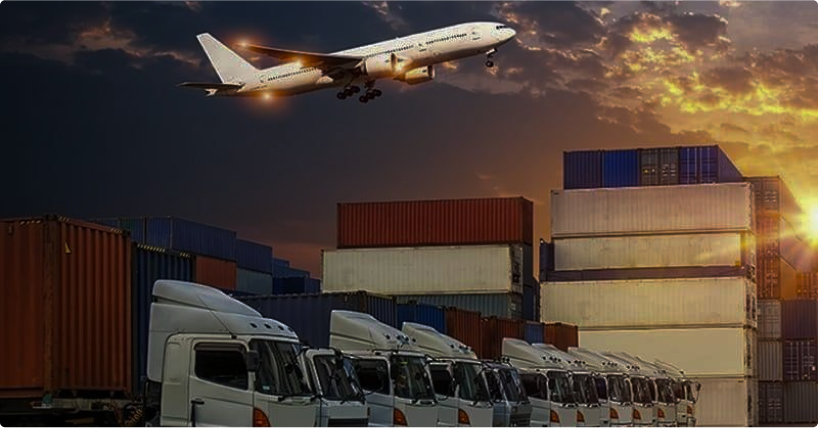
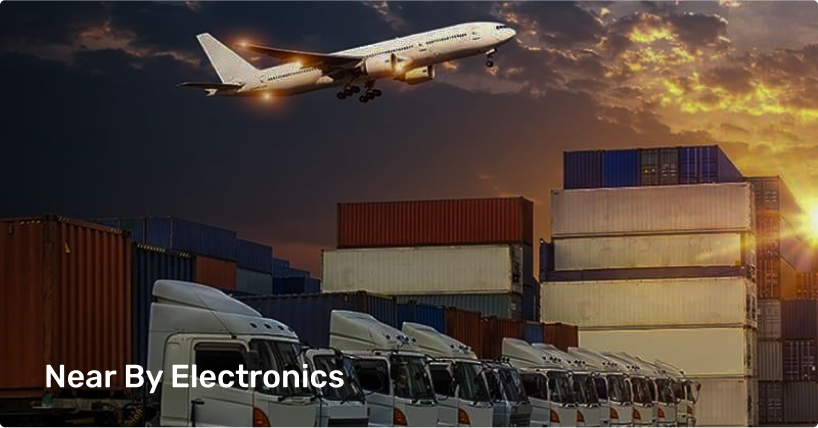
master

Changed region(s): [[0.0306, 0.8505, 0.4279, 0.9112]]

diff --git a/index.html b/index.html
@@ -7,10 +7,9 @@
     <link rel="icon" href="img/bus.png">
     <!-- css -->
     <link rel="stylesheet" href="style.css">
-    <link rel="stylesheet" href="https://cdnjs.cloudflare.com/ajax/libs/bootstrap/5.1.0/css/bootstrap.min.css">
     <!-- font -->
     <link rel="preconnect" href="https://fonts.googleapis.com">
-    <link rel="preconnect" href="https://fonts.gstatic.com" crossorigin>
+    <link rel="preconnect" href="https://fonts.gstatic.com">
     <link href="https://fonts.googleapis.com/css2?family=Poppins&display=swap" rel="stylesheet">
     
     <!-- bootstrap -->
@@ -25,6 +24,7 @@
             <span class="span1">Important Note:</span> if you completely feel secure then transfer your money
         </h1>
     </div>
+
     <div class="container-fluid fdsdf" style="padding: 20px 62px;">
         <div class="row" style="justify-content: space-between;">
             <div class="col-md-3 col-6 d-flex mt-1" style="gap: 4px;padding: 7px 0px;">
@@ -76,24 +76,30 @@
         </div>
 
     </div>
-    <!-- <div class="container-fluid" style="background-image: url(img/image\ 2.png);height: 860px;background-repeat: no-repeat;background-size: cover;">
-    <div class="row">
-        <div class="div1">
-            <h1 class="h2">
-                Ship to and from anywhere in the world 
-            </h1>
-            <h1 class="h3">
-                Find the best freight quote 
-            </h1>
-            <h1 class="h4">
-                Lorem ipsum dolor sit amet consectetur. Aliquam nibh quam vivamus ultricies semper sed gravida dictumst nunc. Ut ac luctus facilisis ipsum mauris volutpat elementum ut. Volutpat nullam tellus egestas scelerisque tellus
-            </h1>
+
+
+
+<div class="linear w-100">
+    <img src="img/background_border.png" class="w-100">
+    <div class="container">
+        <div class="row">
+            <div class="div1">
+                <h1 class="h2">
+                    Ship to and from anywhere in the world 
+                </h1>
+                <h1 class="h3">
+                    Find the best freight quote 
+                </h1>
+                <h1 class="h4">
+                    Lorem ipsum dolor sit amet consectetur. Aliquam nibh quam vivamus ultricies semper sed gravida dictumst nunc. Ut ac luctus facilisis ipsum mauris volutpat elementum ut. Volutpat nullam tellus egestas scelerisque tellus
+                </h1>
+            </div>
+            <div class="div2"></div>
         </div>
-        <div class="div2"></div>
-    </div> -->
+    </div>
 </div>
 
-<div class="container">
+<div class="container" style="margin-top: 65px;">
     <div class="row" style="justify-content: space-between;">
         <div class="col-12 col-md-6">
             <div class="relative" style="position: relative; height: fit-content;background-image: url(img/Who\ we\ are.png);background-repeat: no-repeat;">
@@ -115,21 +121,76 @@
         </div>
     </div>
 </div>
+    <div class="servicesdiv">
+        <h1 style="margin-top: 130px;">
+            Services
+        </h1>
+    </div>
 
-<div class="servicesdiv">
-    <h1 style="margin-top: 130px;">
-        Services
-    </h1>
-</div>
 <div class="container">
-    <div class="row" style="row-gap: 38px;">
-        <div class="imagetxt gx-5 image1 col-12 col-md-8">Rail Express</div>
-        <div class="image2 gx-5 imagetxt col-6 col-md-4">Near By Furniture</div>
-        <div class="image3 gx-5 imagetxt col-6 col-md-4">Surface Express</div>
-        <div class="image4 gx-5 imagetxt col-6 col-md-4">Air Express</div>
-        <div class="image5 gx-5 imagetxt col-6 col-md-4">Domestic Air Express</div>
-        <div class="image6 gx-5 imagetxt col-5 col-md-4">Cold Chain Express</div>
-        <div class="image7 gx-5 imagetxt col-7 col-md-8">Near By Electronics</div>
+    <div class="row gy-4" >
+        <div class="image1 col-12 col-md-8">
+            <div class="w-100">
+                <img class="w-100" src="img/Rectangle 960.png">
+            </div> 
+        </div>
+        <div class=" image2 col-6 col-md-4">
+            <div class="w-100">
+                <img class="w-100" src="img/Rectangle 961.png">
+            </div> </div>
+        <div class=" image3 col-6 col-md-4">
+            <div class="w-100">
+                <img class="w-100" src="img/Rectangle 962.png">
+            </div> </div>
+        <div class="image4 col-6 col-md-4">
+            <div class="w-100">
+                <img class="w-100" src="img/Rectangle 963.png">
+            </div> </div>
+        <div class=" image5 col-6 col-md-4">
+            <div class="w-100">
+                <img class="w-100" src="img/Rectangle 964.png">
+            </div> </div>
+        <div class=" image4 col-4">
+            <div class="w-100">
+                <img class="w-100" src="img/Rectangle 965.png">
+            </div> </div>
+        <div class=" image7 col-8 col-md-8">
+            <div class="w-100">
+                <img class="w-100" src="img/Rectangle 966.png">
+            </div> 
+        </div>
+    </div>
+</div>
+
+<h1 class="Testimonials">
+    Testimonials
+</h1>
+<div class="row justify-content-center">
+    <div class="valuable col-md-6">
+        <h1 >
+            Our Valuable & Trusted Clients
+        </h1>
+    </div>
+</div>
+
+<div class="container">
+    <div class="row">
+        <div class="col-1">
+
+        </div>
+        <div class="col-12 col-md-8 portrait bg-danger">
+            <div class="row">
+                <div class="col-md-5">
+
+                </div>
+                <div class="col-md-7">
+
+                </div>
+            </div>
+        </div>
+        <div class="col-1">
+
+        </div>
     </div>
 </div>
 

diff --git a/style.css b/style.css
@@ -1,5 +1,6 @@
 * {
     box-sizing: border-box;
+    border: 1px solid red;
 }
 body{
     padding: 0;
@@ -28,7 +29,7 @@ body{
     src: url(font/Poppins-Regular.ttf);
 }
 
-@media (max-width: 850px) {
+@media (max-width: 992px) {
     
       .fdsdf{
         padding: 8px 30px !important;
@@ -117,7 +118,29 @@ transition: 0.4s;
     height: 233.371px;
     width: 100%;
     margin-top: 32px;
- }   
+ }
+ 
+ 
+
+
+.image2{
+    width: 320.084px;
+}
+.image3{
+    width: 320.084px;
+}
+.image4{
+    width: 320.084px;
+}
+.image5{
+    width: 320.084px;
+}
+.image6{
+    width: 320.084px;
+}
+
+
+
  .servicesdiv h1 {
     background-image: url(img/Services.png);
     background-repeat: no-repeat;
@@ -125,14 +148,34 @@ transition: 0.4s;
     font-size: 48px;
     font-family: 'Rubik';
     font-weight: 700;
-    margin-left: 110px;
     display: flex;
     justify-content: center;
     align-items: center;
-    width: 100%;
-    height: 110px;
+    width: 90%;
+    height: 70px;
+}
+.Testimonials{
+    color: var(--primary, #1341EC);
+    font-size: 10.24px;
+    font-family: Rubik;
+    font-weight: 600;
+    line-height: 15.36px;
+    text-align: center;
+    margin-top: 57px;
 }
 
+.valuable h1{
+    font-family: 'Rubik';
+    font-size: 20px;
+    font-weight: 700;
+    line-height: 35px;
+    letter-spacing: 0px;
+    text-align: left;
+    text-align: center;
+    background-image: url(img/Testimonials1.png);
+    background-repeat: no-repeat;
+    background-size: contain;
+}
 
 
 }
@@ -143,7 +186,18 @@ transition: 0.4s;
 
 
 
-@media (min-width: 850px) {
+@media (min-width: 992px) {
+
+    .portrait{
+        border-radius: 17.129px;
+        background: #FFF;
+        box-shadow: 0.8564284443855286px 2.5692856311798096px 4.282142162322998px 5.138571262359619px rgba(0, 0, 0, 0.25);
+        display: flex;
+        padding: 31px;
+        flex-direction: column;
+        align-items: flex-start;
+        height: 490px;
+    }
 .Trans{
         font-family: 'Risque';
         font-style: normal;
@@ -152,6 +206,26 @@ transition: 0.4s;
         line-height: 150%;
         text-transform: capitalize;
         color: #1341EC;
+}
+.valuable h1{
+    font-family: 'Rubik';
+font-size: 48px;
+font-weight: 700;
+line-height: 81px;
+letter-spacing: 0px;
+text-align: left;
+background-image: url(img/Testimonials.png);
+background-repeat: no-repeat;
+
+}
+.Testimonials{
+    color: var(--primary, #1341EC);
+font-size: 24px;
+font-family: Rubik;
+font-weight: 600;
+line-height: 36px;
+text-align: center;
+margin-top: 110px;
 }
 .servicesdiv h1 {
     background-image: url(img/Services.png);
@@ -279,31 +353,11 @@ text-decoration-line: underline;
 
 color: #FAFAFA;
 }
-.image1{
-    background-image: url(img/Rectangle\ 960.png);
-}
-.image2{
-    background-image: url(img/Rectangle\ 961.png);
-}
-.image3{
-    background-image: url(img/Rectangle\ 962.png);
-}
-.image4{
-    background-image: url(img/Rectangle\ 963.png);
-}
-.image5{
-    background-image: url(img/Rectangle\ 964.png);
-}
-.image6{
-    background-image: url(img/Rectangle\ 965.png);
-}
-.image7{
-    background-image: url(img/Rectangle\ 966.png);
-}
+
 .imagetxt{
     height: 427px;
     background-repeat: no-repeat;
-    background-size: cover;
+    
     border-radius: 10px;
     flex-shrink:0;
     color: #FFF;
